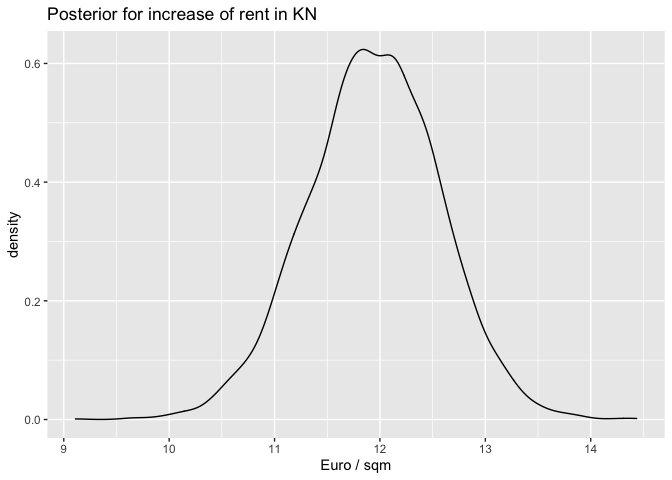
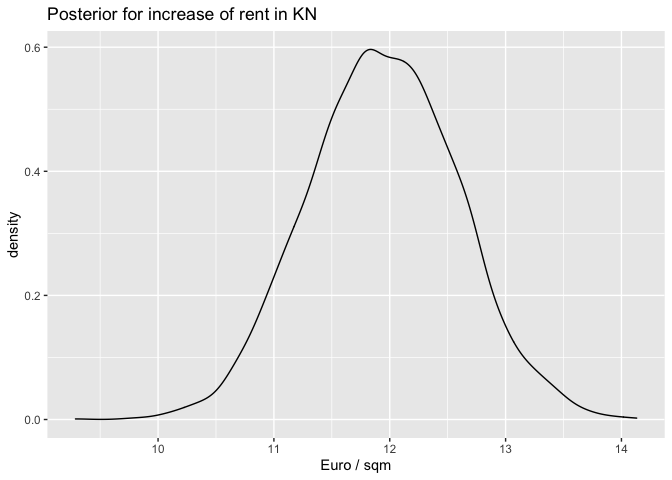
now really using the scaled variables

diff --git a/stan/kn_rent/rent_kn_lsg.md b/stan/kn_rent/rent_kn_lsg.md
@@ -84,9 +84,9 @@ into a training and test set.
 ```
 
 It’s always a good idea to scale your data before regression. For this
-example not doing so will cause divergent transitions. Since we are not
-allowed to know anything about the testdata, we just use the training
-data for scaling and prepare a list for stan.
+example not doing so will cause some divergent transitions. Since we are
+not allowed to know anything about the testdata, we just use the
+training data for scaling and prepare a list for stan.
 
 ``` r
 x_mean = mean(KN_train$livingSpace)
@@ -98,15 +98,15 @@ kn_stan_dat = list(
   N = nrow(KN_train),
   y = (KN_train$baseRent - y_mean)/y_sd,
   x = (KN_train$livingSpace - x_mean)/x_sd,
-  y = KN_train$baseRent,
-  x = KN_train$livingSpace,
+  #y = KN_train$baseRent,
+  #x = KN_train$livingSpace,
   j = KN_train$id,
   
   N_t = nrow(KN_test),
   y_t = (KN_test$baseRent - y_mean)/y_sd,
   x_t = (KN_test$livingSpace - x_mean)/x_sd,
-  y_t = KN_test$baseRent,
-  x_t = KN_test$livingSpace,
+  #y_t = KN_test$baseRent,
+  #x_t = KN_test$livingSpace,
   j_t = KN_test$id,
   J = J,
   
@@ -183,12 +183,6 @@ library(rstan)
 #kn_m = stan_model(file = 'kn_hier.stan')
 kn_s = sampling(kn_m, data=kn_stan_dat) 
 ```
-
-    ## Warning: There were 2 divergent transitions after warmup. See
-    ## http://mc-stan.org/misc/warnings.html#divergent-transitions-after-warmup
-    ## to find out why this is a problem and how to eliminate them.
-
-    ## Warning: Examine the pairs() plot to diagnose sampling problems
 
 ### Base costs
 
@@ -428,4 +422,4 @@ Stockach
 ```
 
     ##       5%      50%      95% 
-    ## 10.90616 11.94331 12.93510
+    ## 10.89416 11.94220 12.99266

diff --git a/stan/kn_rent/rent_kn_no_lsg.md b/stan/kn_rent/rent_kn_no_lsg.md
@@ -84,9 +84,9 @@ into a training and test set.
 ```
 
 It’s always a good idea to scale your data before regression. For this
-example not doing so will cause divergent transitions. Since we are not
-allowed to know anything about the testdata, we just use the training
-data for scaling and prepare a list for stan.
+example not doing so will cause some divergent transitions. Since we are
+not allowed to know anything about the testdata, we just use the
+training data for scaling and prepare a list for stan.
 
 ``` r
 x_mean = mean(KN_train$livingSpace)
@@ -98,15 +98,15 @@ kn_stan_dat = list(
   N = nrow(KN_train),
   y = (KN_train$baseRent - y_mean)/y_sd,
   x = (KN_train$livingSpace - x_mean)/x_sd,
-  y = KN_train$baseRent,
-  x = KN_train$livingSpace,
+  #y = KN_train$baseRent,
+  #x = KN_train$livingSpace,
   j = KN_train$id,
   
   N_t = nrow(KN_test),
   y_t = (KN_test$baseRent - y_mean)/y_sd,
   x_t = (KN_test$livingSpace - x_mean)/x_sd,
-  y_t = KN_test$baseRent,
-  x_t = KN_test$livingSpace,
+  #y_t = KN_test$baseRent,
+  #x_t = KN_test$livingSpace,
   j_t = KN_test$id,
   J = J,
   
@@ -184,7 +184,7 @@ library(rstan)
 kn_s = sampling(kn_m, data=kn_stan_dat) 
 ```
 
-    ## Warning: There were 3 divergent transitions after warmup. See
+    ## Warning: There were 5 divergent transitions after warmup. See
     ## http://mc-stan.org/misc/warnings.html#divergent-transitions-after-warmup
     ## to find out why this is a problem and how to eliminate them.
 
